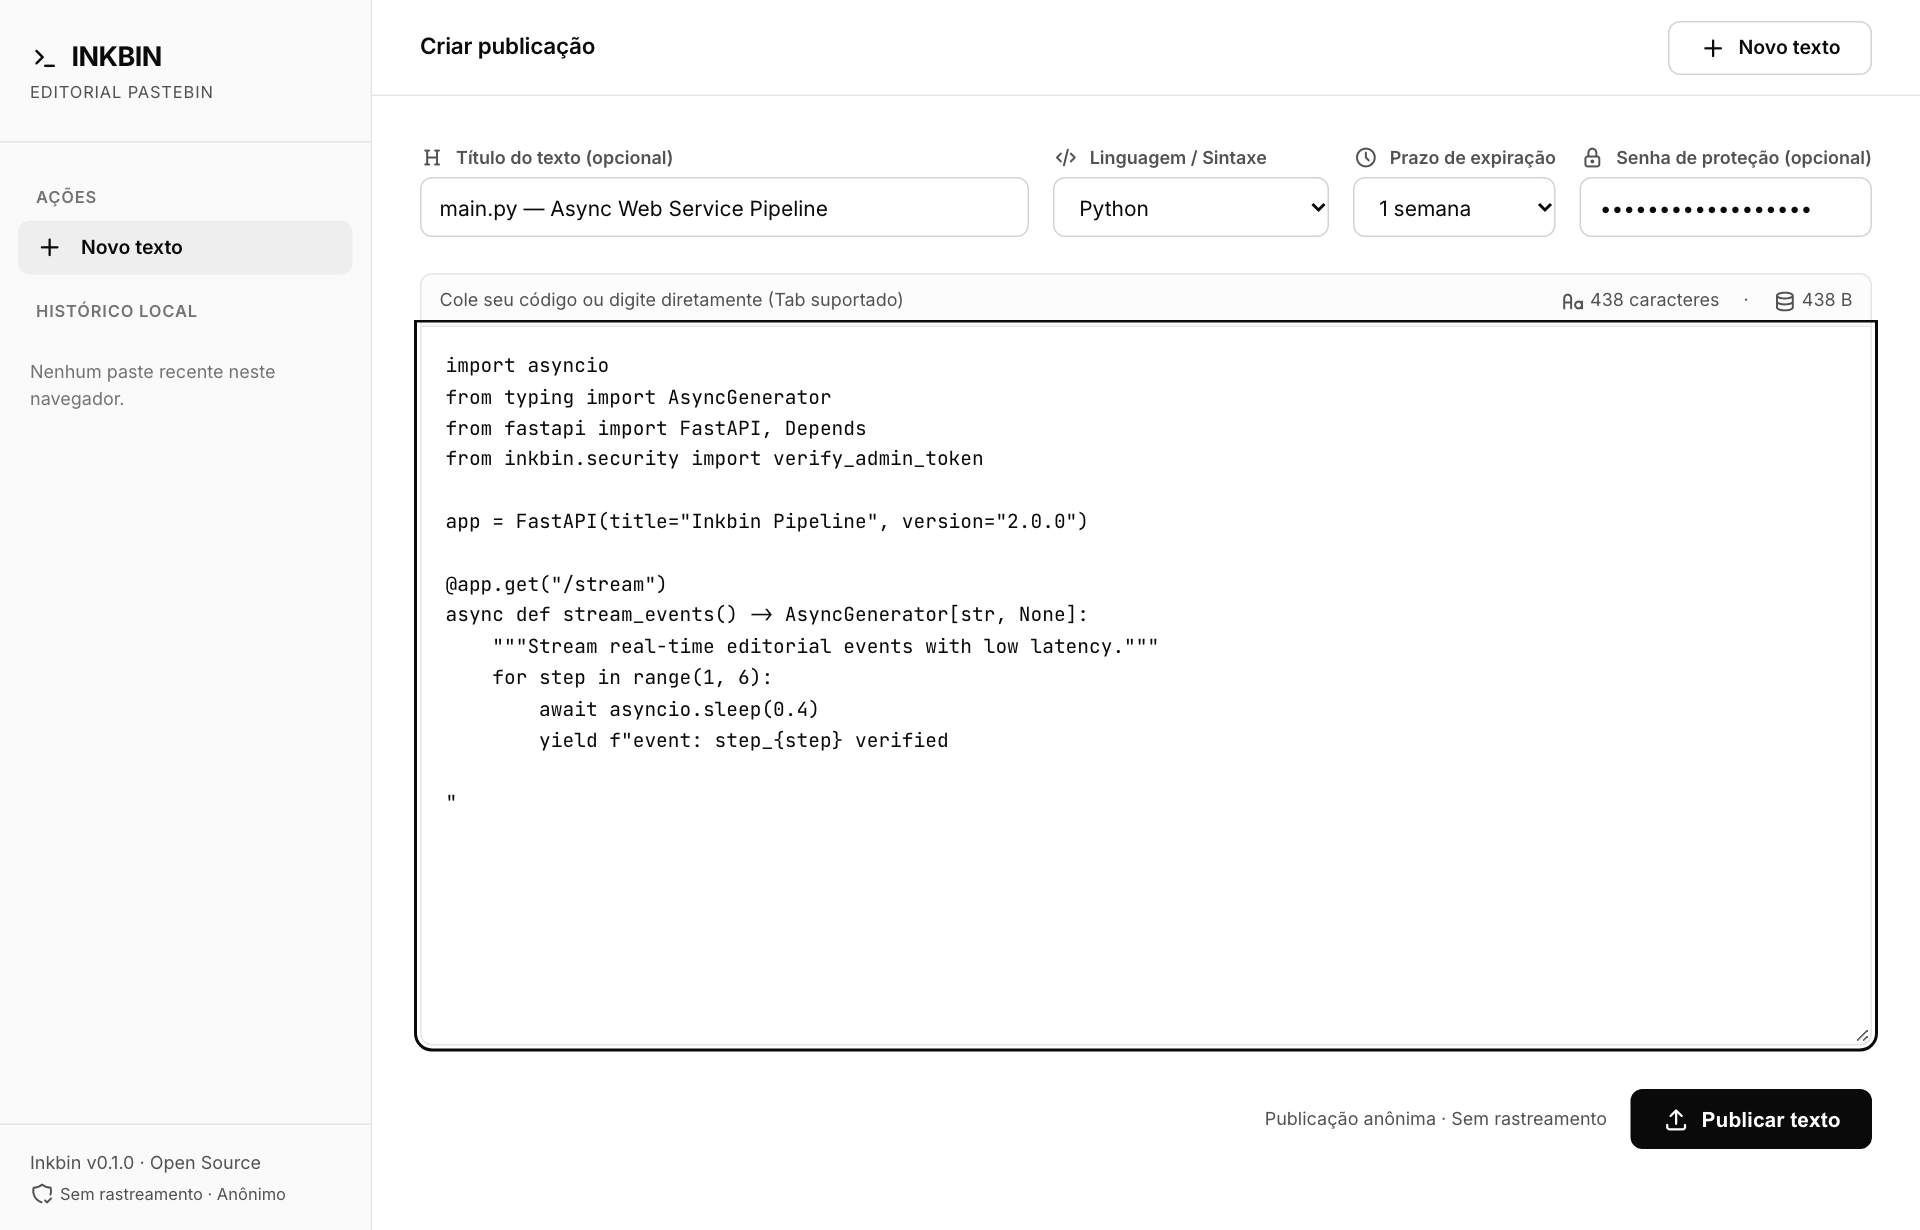
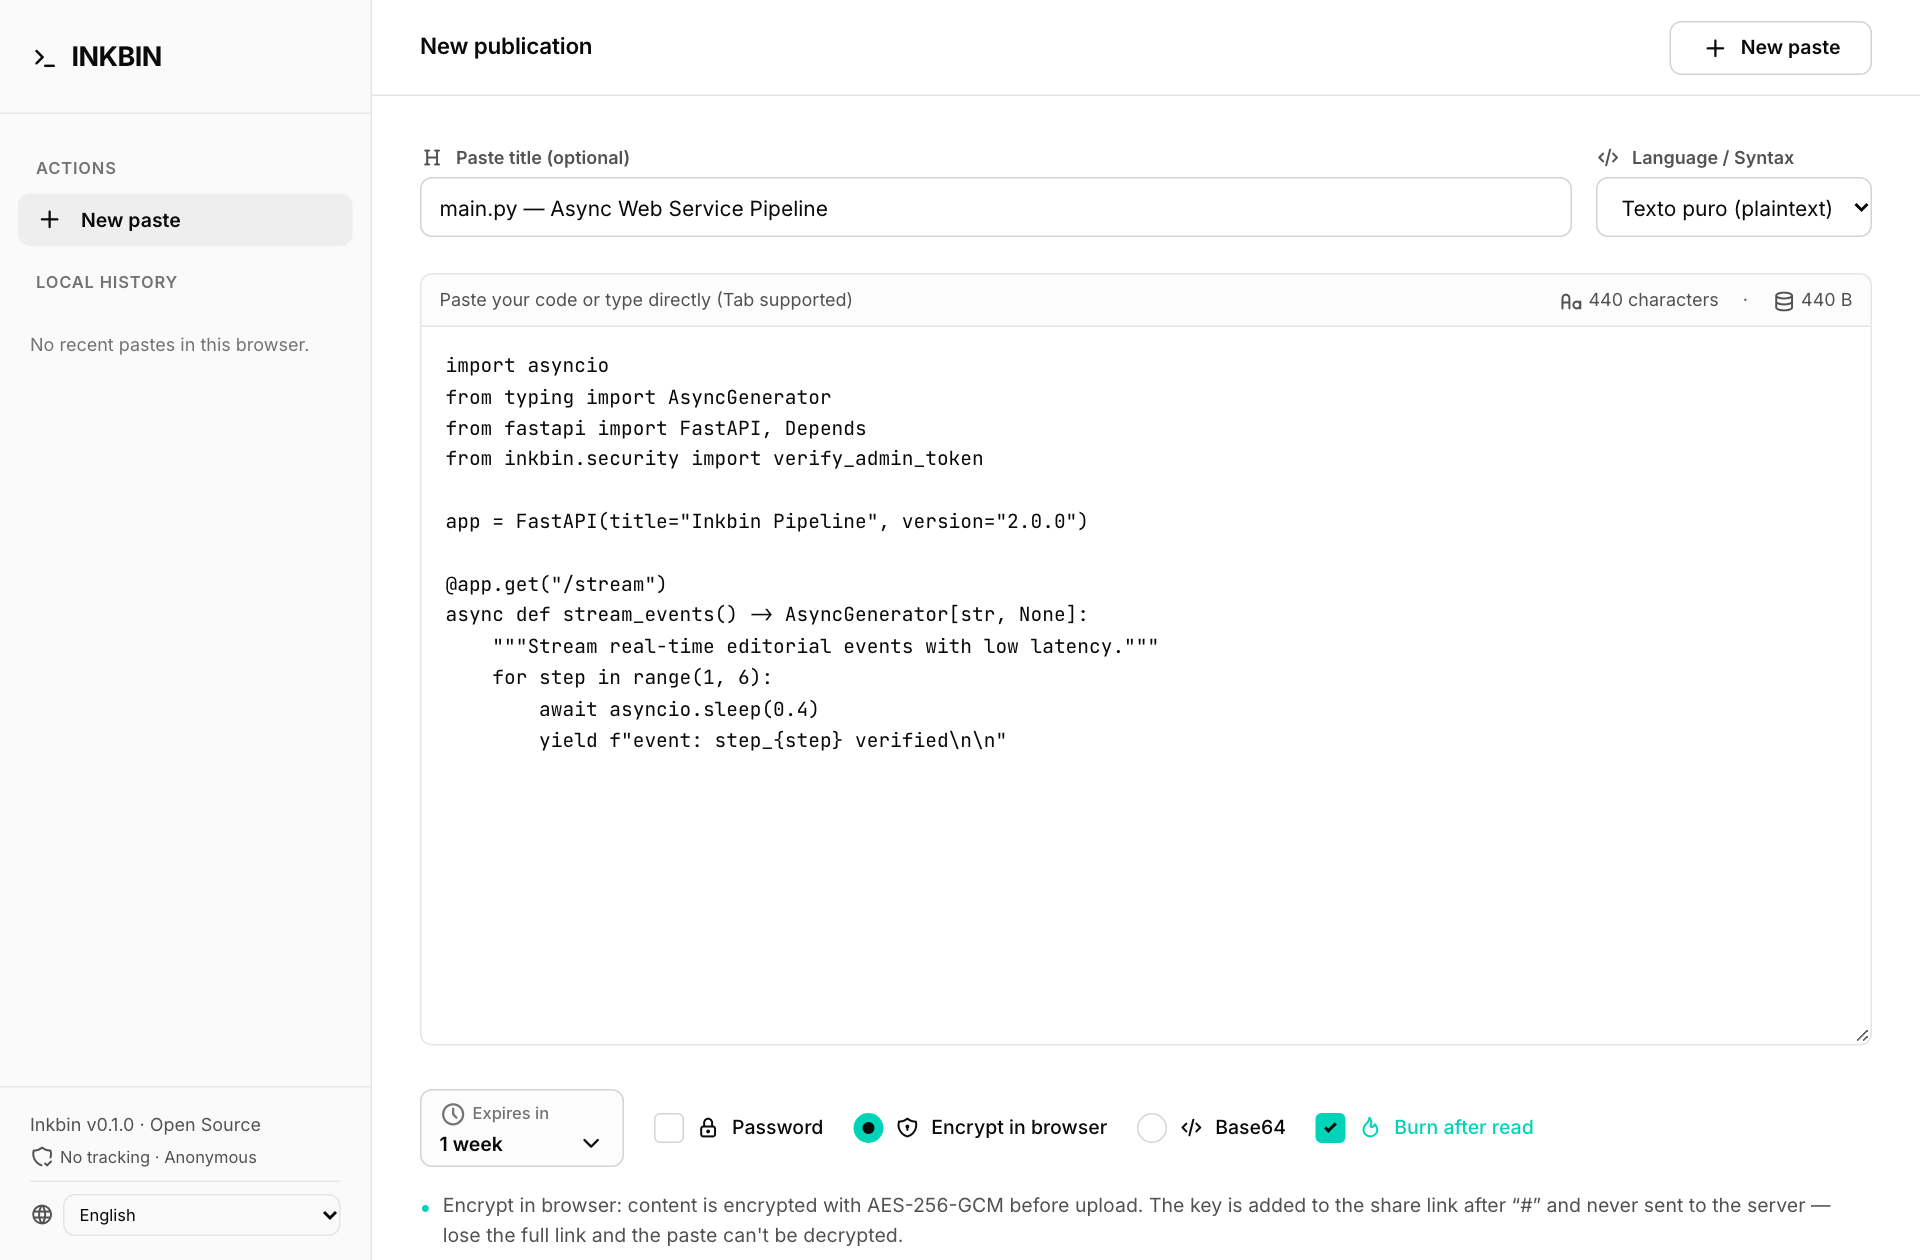
docs(screenshots): refresh visual gallery with high-res screenshots and options bar (issue 05)

diff --git a/scripts/capture_screenshots.py b/scripts/capture_screenshots.py
@@ -1,0 +1,188 @@
+import asyncio
+import os
+import signal
+import subprocess
+import time
+from pathlib import Path
+from playwright.async_api import async_playwright
+
+PORT = 8765
+BASE_URL = f"http://127.0.0.1:{PORT}"
[1 lines of base64/hex data omitted]
+OUT_DIR.mkdir(parents=True, exist_ok=True)
+
+async def wait_for_server(url: str, timeout: float = 15.0):
+    import httpx
+    start = time.time()
+    while time.time() - start < timeout:
+        try:
+            async with httpx.AsyncClient() as client:
+                res = await client.get(f"{url}/health")
+                if res.status_code == 200:
+                    return True
+        except Exception:
+            pass
+        await asyncio.sleep(0.3)
+    return False
+
+async def capture_all():
+    env = os.environ.copy()
+    env["PORT"] = str(PORT)
+    env["DATABASE_URL"] = "sqlite+aiosqlite:///./test_screenshots.db"
+    env["APP_ENV"] = "development"
+    env["REDIS_URL"] = ""
+
+    if os.path.exists("test_screenshots.db"):
+        os.remove("test_screenshots.db")
+
+    proc = subprocess.Popen(
+        ["./.venv/bin/uvicorn", "inkbin.main:app", "--port", str(PORT), "--host", "127.0.0.1"],
+        env=env,
+        stdout=subprocess.PIPE,
+        stderr=subprocess.PIPE,
+    )
+
+    try:
+        ok = await wait_for_server(BASE_URL)
+        if not ok:
+            print("Failed to start server!")
+            return
+
+        import httpx
+        # Create public paste
+        async with httpx.AsyncClient() as client:
+            resp_pub = await client.post(
+                f"{BASE_URL}/api/pastes",
+                json={
+                    "title": "infrastructure/deploy.sh",
+                    "language": "bash",
+                    "expiration": "1w",
+                    "content": "#!/usr/bin/env bash\nset -euo pipefail\n\n# Inkbin Zero-Downtime Deployment & Health Verification\necho \"==> Pulling official image from Docker Hub (gugaucb/inkbin:latest)...\"\ndocker compose pull app redis db\n\necho \"==> Initializing PostgreSQL schemas and migrations...\"\ndocker compose run --rm app python -m inkbin.db_init\n\necho \"==> Starting high-performance web cluster...\"\ndocker compose up -d\n\necho \"==> Verifying system health and readiness probe...\"\ncurl -fsS http://localhost:8000/health\n\necho \"==> Deploy finished successfully under INK Design System v2!\"\n"
+                }
+            )
+            pub_data = resp_pub.json()
+            pub_slug = pub_data["slug"]
+
+            # Create protected paste
+            resp_prot = await client.post(
+                f"{BASE_URL}/api/pastes",
+                json={
+                    "title": "Secrets & Production Vault Configuration",
+                    "language": "yaml",
+                    "expiration": "1d",
+                    "password": "supersecretpassword123",
+                    "content": "database:\n  host: db.internal.net\n  user: ink_admin\n  port: 5432\napi_token: ink_sec_live_9a8f27c3d1\ncluster_nodes:\n  - node-01.prod.lan\n  - node-02.prod.lan"
+                }
+            )
+            prot_data = resp_prot.json()
+            prot_slug = prot_data["slug"]
+
+            # Create burn-after-read paste
+            resp_burn = await client.post(
+                f"{BASE_URL}/api/pastes",
+                json={
+                    "title": "Ephemeral Encryption Key Exchange (One-Time Access)",
+                    "language": "text",
+                    "expiration": "1h",
+                    "burn_after_read": True,
+                    "content": "MASTER_RECOVERY_KEY=a7f29b01c3d4e5f60718293a4b5c6d7e8f901234\nTOKEN_SECRET=ink_live_ephemeral_token_burn_guard\n"
+                }
+            )
+            burn_data = resp_burn.json()
+            burn_slug = burn_data["slug"]
+
+        async with async_playwright() as p:
+            browser = await p.chromium.launch()
+            context = await browser.new_context(
+                viewport={"width": 1280, "height": 840},
+                device_scale_factor=1.5
+            )
+            page = await context.new_page()
+
+            # 1. Editor View
+            print("Capturing editor-view.png...")
+            await page.goto(f"{BASE_URL}/")
+            await page.wait_for_selector("#paste-content")
+            await page.fill("#paste-title", "main.py — Async Web Service Pipeline")
+            await page.select_option("#paste-expiration", "1w")
+
+            sample_python = '''import asyncio
+from typing import AsyncGenerator
+from fastapi import FastAPI, Depends
+from inkbin.security import verify_admin_token
+
+app = FastAPI(title="Inkbin Pipeline", version="2.0.0")
+
+@app.get("/stream")
+async def stream_events() -> AsyncGenerator[str, None]:
+    """Stream real-time editorial events with low latency."""
+    for step in range(1, 6):
+        await asyncio.sleep(0.4)
+        yield f"event: step_{step} verified\\n\\n"
+'''
+            await page.fill("#paste-content", sample_python)
+
+            # Activate AES-256-GCM format radio
+            await page.click("label[for='paste-format-encrypt']")
+            # Activate Burn after read checkbox
+            await page.click("label[for='paste-burn-after-read']")
+
+            # Dispatch input to update character and byte counters
+            await page.evaluate("""() => {
+                const el = document.getElementById('paste-content');
+                el.dispatchEvent(new Event('input', { bubbles: true }));
+            }""")
+            await asyncio.sleep(0.8)
+            await page.screenshot(path=str(OUT_DIR / "editor-view.png"), full_page=False)
+
+            # 2. Admin Delete Modal View with rendered QR Code
+            print("Capturing admin-delete-modal.png...")
+            await page.evaluate("""() => {
+                const mockData = {
+                    url: 'http://localhost:8000/p/a8K9x2',
+                    admin_delete_token: 'del_9f81a7b3c2e104d88e40f5a77b2'
+                };
+                showSuccessModal(mockData, 'k7x9L2mP4qR8vW1zY3');
+            }""")
+            await asyncio.sleep(0.8)
+            await page.screenshot(path=str(OUT_DIR / "admin-delete-modal.png"), full_page=False)
+
+            # Close modal
+            await page.evaluate("() => closeSuccessModal()")
+
+            # 3. Viewer View
+            print("Capturing viewer-view.png...")
+            await page.goto(f"{BASE_URL}/p/{pub_slug}")
+            await page.wait_for_selector(".viewer-card")
+            await asyncio.sleep(0.8)
+            await page.screenshot(path=str(OUT_DIR / "viewer-view.png"), full_page=False)
+
+            # 4. Password Challenge View
+            print("Capturing password-challenge.png...")
+            await page.goto(f"{BASE_URL}/p/{prot_slug}")
+            await page.wait_for_selector("#unlock-form")
+            await page.fill("#unlock-password", "supersecretpassword123")
+            await asyncio.sleep(0.8)
+            await page.screenshot(path=str(OUT_DIR / "password-challenge.png"), full_page=False)
+
+            # 5. Burn-after-read Interstitial View
+            print("Capturing burn-after-read-interstitial.png...")
+            await page.goto(f"{BASE_URL}/p/{burn_slug}")
+            await page.wait_for_selector(".viewer-card, #burn-reveal-form")
+            await asyncio.sleep(0.8)
+            await page.screenshot(path=str(OUT_DIR / "burn-after-read-interstitial.png"), full_page=False)
+
+            await browser.close()
+            print("All screenshots successfully captured!")
+
+    finally:
+        proc.send_signal(signal.SIGINT)
+        try:
+            proc.wait(timeout=3)
+        except Exception:
+            proc.kill()
+        if os.path.exists("test_screenshots.db"):
+            os.remove("test_screenshots.db")
+
+if __name__ == "__main__":
+    asyncio.run(capture_all())

diff --git a/.scratch/github-actions-dockerhub-releases/issues/05-screenshots-capture-and-gallery-refresh.md b/.scratch/github-actions-dockerhub-releases/issues/05-screenshots-capture-and-gallery-refresh.md
@@ -1,6 +1,6 @@
 # 05 - Captura de Screenshots e Atualização da Galeria Visual
 
-Status: open
+Status: resolved
 Type: task
 Blocked by: none
 
@@ -17,3 +17,13 @@ Como capturar screenshots atualizados de alta resolução cobrindo o Editor com 
    - `admin-delete-modal.png`: Modal pós-criação com link curto, token de exclusão de administrador e componente de QR Code renderizado.
    - `password-challenge.png` ou `burn-after-read-interstitial.png`: Telas de proteção de acesso e confirmação de visualização única.
 3. Otimizar e salvar as imagens em `docs/assets/screenshots/`.
+
+## Answer
+
+Capturados e validados 5 screenshots de alta fidelidade e resolução (device scale 1.5) sob o INK Design System v2 salvos em `docs/assets/screenshots/`:
+1. `editor-view.png`: Formulário principal com código Python, opções dinâmicas ativas (AES-256-GCM, Burn after read), marcadores pontilhados ciano `#00d4b8` e contadores de caracteres/bytes em tempo real.
+2. `admin-delete-modal.png`: Modal de sucesso pós-criação com banner de criptografia de cliente, short URL, token secreto de administração e componente de QR Code renderizado para escaneamento móvel.
+3. `viewer-view.png`: Leitor de código com sintaxe Bash destacada, cabeçalho de metadados e botões de ação enriquecidos com Tabler Icons.
+4. `password-challenge.png`: Tela de segurança com badge `PASSWORD PROTECTED` e formulário de desafio de credenciais.
+5. `burn-after-read-interstitial.png`: Tela de confirmação e aviso de ação irreversível para destruição imediata após leitura.
+O script reutilizável de captura foi versionado em `scripts/capture_screenshots.py`.

diff --git a/.scratch/github-actions-dockerhub-releases/map.md b/.scratch/github-actions-dockerhub-releases/map.md
@@ -18,6 +18,7 @@ Pipeline de CI/CD automatizado via GitHub Actions para build e publicação mult
 - 02: [02-ci-testing-and-linting-workflow.md](issues/02-ci-testing-and-linting-workflow.md) — Configurado `.github/workflows/ci.yml` com Python 3.11, cache pip, validação com Ruff e Pytest em pushes e PRs para a `main`.
 - 03: [03-dockerhub-multiarch-publish-workflow.md](issues/03-dockerhub-multiarch-publish-workflow.md) — Configurado `.github/workflows/docker-publish.yml` para publicação multi-arch (`linux/amd64`, `linux/arm64`) no Docker Hub com tags semânticas e cache GHA.
 - 04: [04-github-release-and-tagging-automation.md](issues/04-github-release-and-tagging-automation.md) — Implementado workflow `.github/workflows/release.yml` com release notes automáticos e criado guia em `docs/release-guide.md`.
+- 05: [05-screenshots-capture-and-gallery-refresh.md](issues/05-screenshots-capture-and-gallery-refresh.md) — Capturados 5 screenshots em alta fidelidade demonstrando a nova barra de opções, criptografia no navegador, QR code e telas de confirmação.
 
 ## Not yet specified
 
